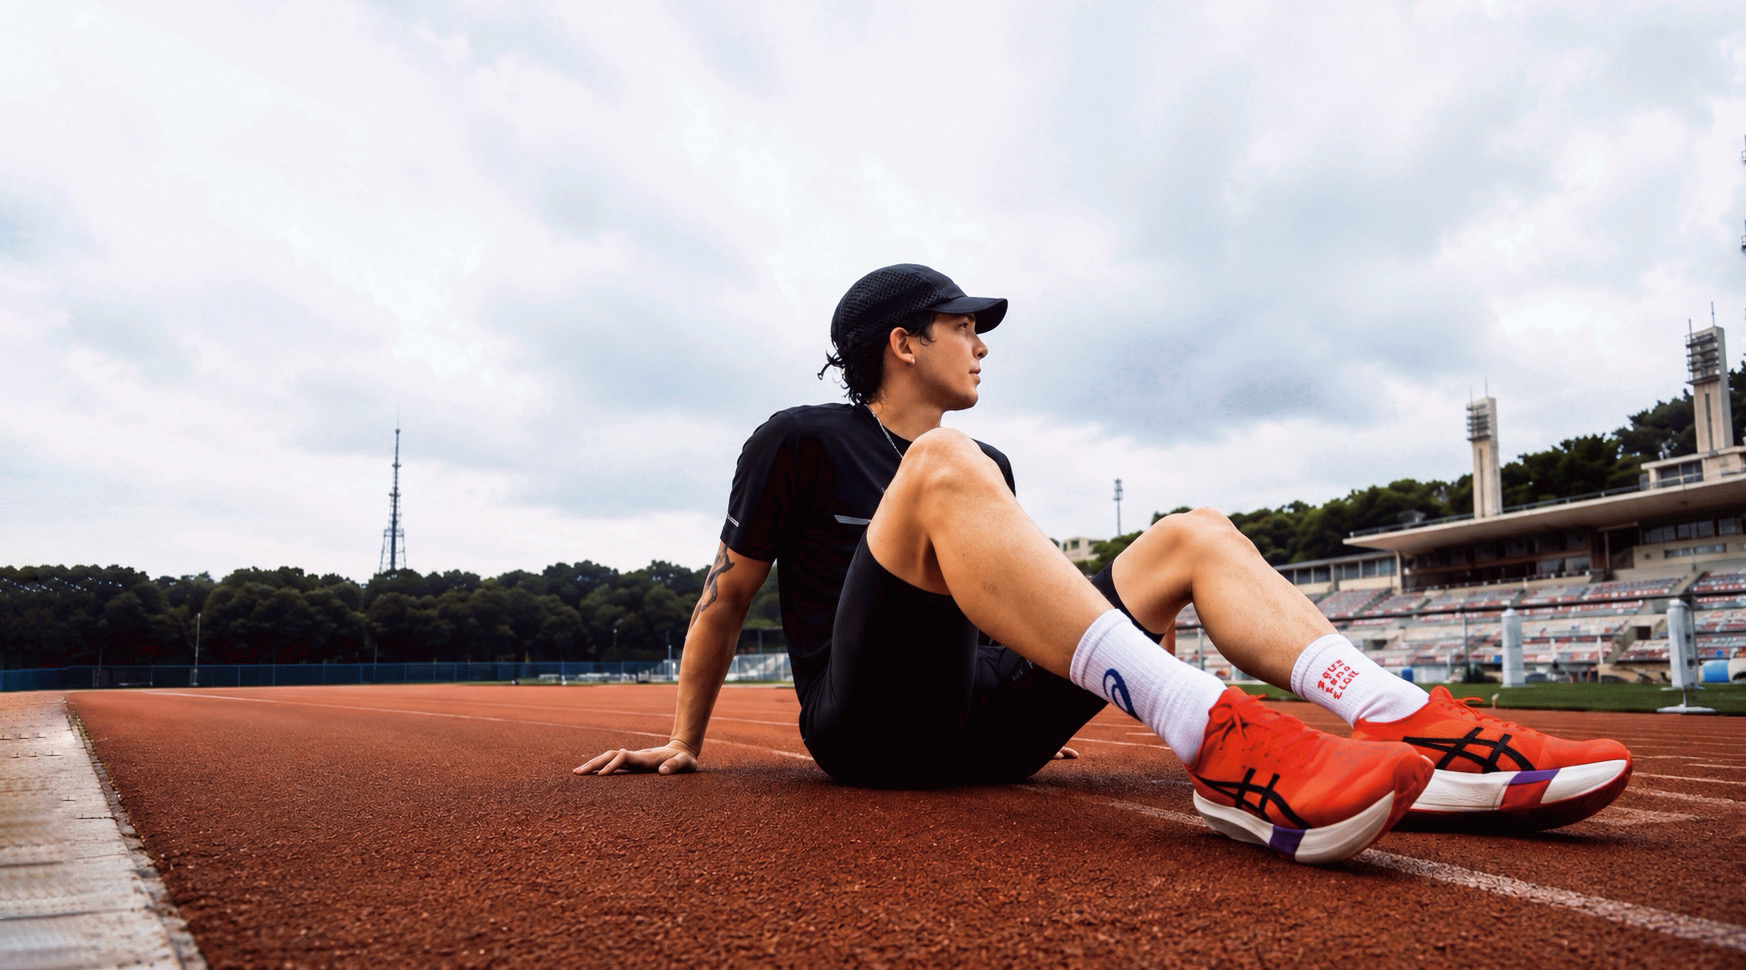
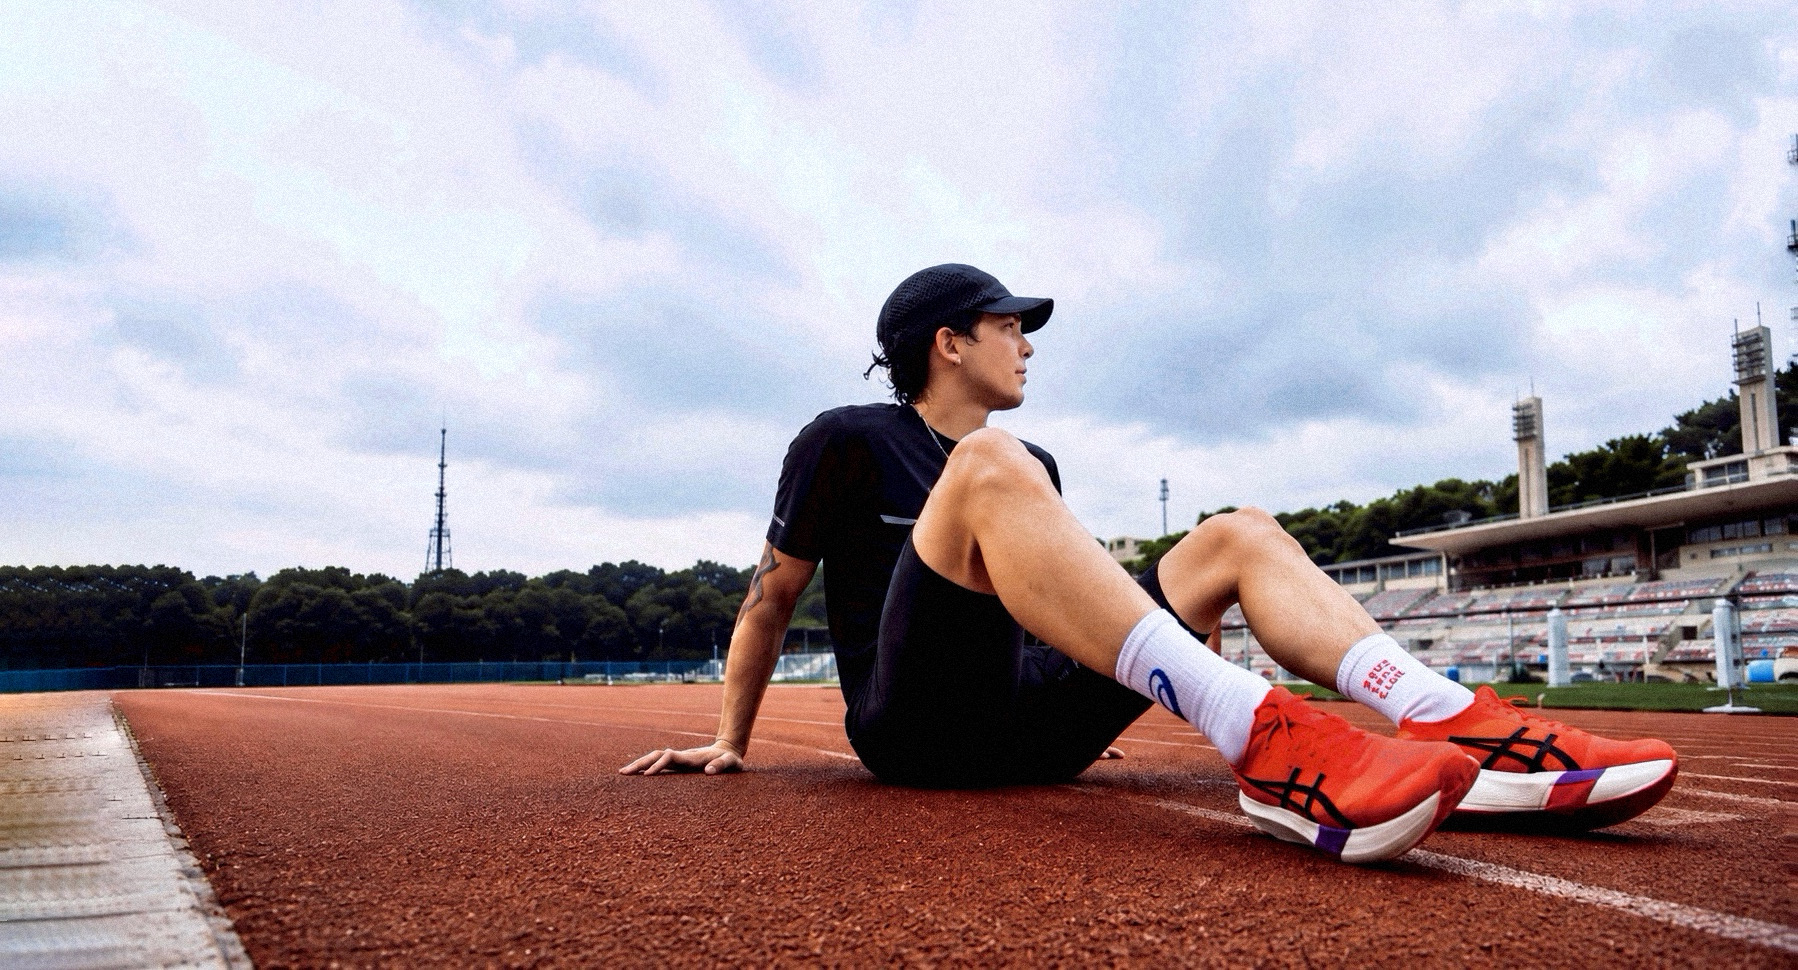
Ajustes no layout do celular

diff --git a/css/style.css b/css/style.css
@@ -1866,3 +1866,74 @@ main {
         padding-right: 20px;
     }
 }
+
+/* ==================================================
+   AJUSTES MOBILE — FORMATOS E MARCAS
+================================================== */
+
+@media (max-width: 600px) {
+
+    /* ---------- FORMATOS ---------- */
+
+    .formats-grid {
+        grid-template-columns: repeat(2, minmax(0, 1fr));
+        gap: 12px;
+    }
+
+    .format-card {
+        aspect-ratio: auto;
+        min-height: 290px;
+        padding: 16px;
+        border-radius: 14px;
+    }
+
+    .format-card h3 {
+        max-width: 100%;
+        margin: 0 0 14px;
+        font-size: clamp(1.25rem, 5.8vw, 1.55rem);
+        line-height: 1;
+        letter-spacing: -0.04em;
+        overflow-wrap: anywhere;
+    }
+
+    .format-card p {
+        margin: 0;
+        font-size: 0.76rem;
+        line-height: 1.5;
+    }
+
+    .format-card > span {
+        font-size: 0.7rem;
+    }
+
+    /* ---------- MARCAS ---------- */
+
+    .brands-grid {
+        gap: 14px 10px;
+        overflow: visible;
+        border-radius: 0;
+    }
+
+    .brand-card {
+        overflow: visible;
+    }
+
+    .brand-card .brand-card__logo,
+    .brand-card:nth-child(1) .brand-card__logo,
+    .brand-card:nth-child(2) .brand-card__logo,
+    .brand-card:nth-child(7) .brand-card__logo {
+        border-radius: 14px;
+    }
+
+    .brand-card__logo {
+        height: 100px;
+        padding: 18px;
+    }
+
+    .brand-card__time {
+        padding-inline: 5px;
+        margin-top: 8px;
+        font-size: 0.66rem;
+        line-height: 1.35;
+    }
+}

diff --git a/index.html b/index.html
@@ -17,7 +17,7 @@
 
     <title>Guilherme Nishiyama | Mídia Kit</title>
 
-    <link rel="stylesheet" href="css/style.css?v=4">
+    <link rel="stylesheet" href="css/style.css?v=5">
 </head>
 
 <body>
@@ -27,7 +27,7 @@
 
     <header class="site-header">
     <a class="logo" href="#inicio" aria-label="Voltar ao início">
-        midia_kit<span></span>
+        @guinishiyama<span></span>
     </a>
 
     <nav class="navigation" aria-label="Navegação principal">
@@ -58,12 +58,12 @@
             <!-- <p>Creator & Runner</p> -->
         </div>
 
-        <div class="hero__topics">
+        <!-- <div class="hero__topics">
             <p>Corrida e performance</p>
             <p>Rotina esportiva</p>
             <p>Reviews e experiências</p>
             <p>Conteúdo para marcas</p>
-        </div>
+        </div> -->
 
         <div class="hero__marks" aria-hidden="true">
             <span>+</span>
@@ -284,7 +284,7 @@
         >
             <div class="project-card__image">
                 <img
-                    src="assets/images/projeto-04.png"
+                    src="assets/images/projeto-04.PNG"
                     alt="Quarto projeto em destaque"
                 >
 